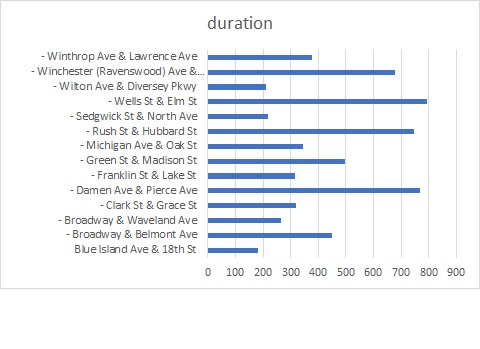
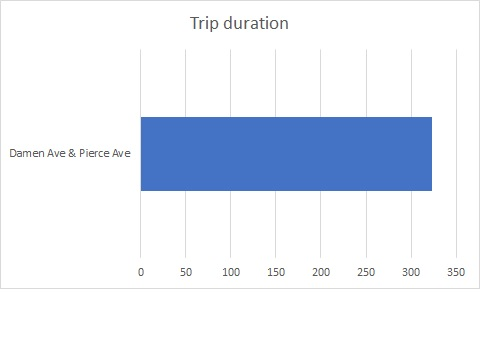
rent

diff --git a/README.md b/README.md
@@ -57,7 +57,7 @@ Mapper Input:
 
 | Start station | Total Trip Duration |
 |----------|----------|
-| Damen Ave & Pierce Ave | 962.7335529 |
+| Damen Ave & Pierce Ave | 323 |
 
 chart: Bar Braph.
   
